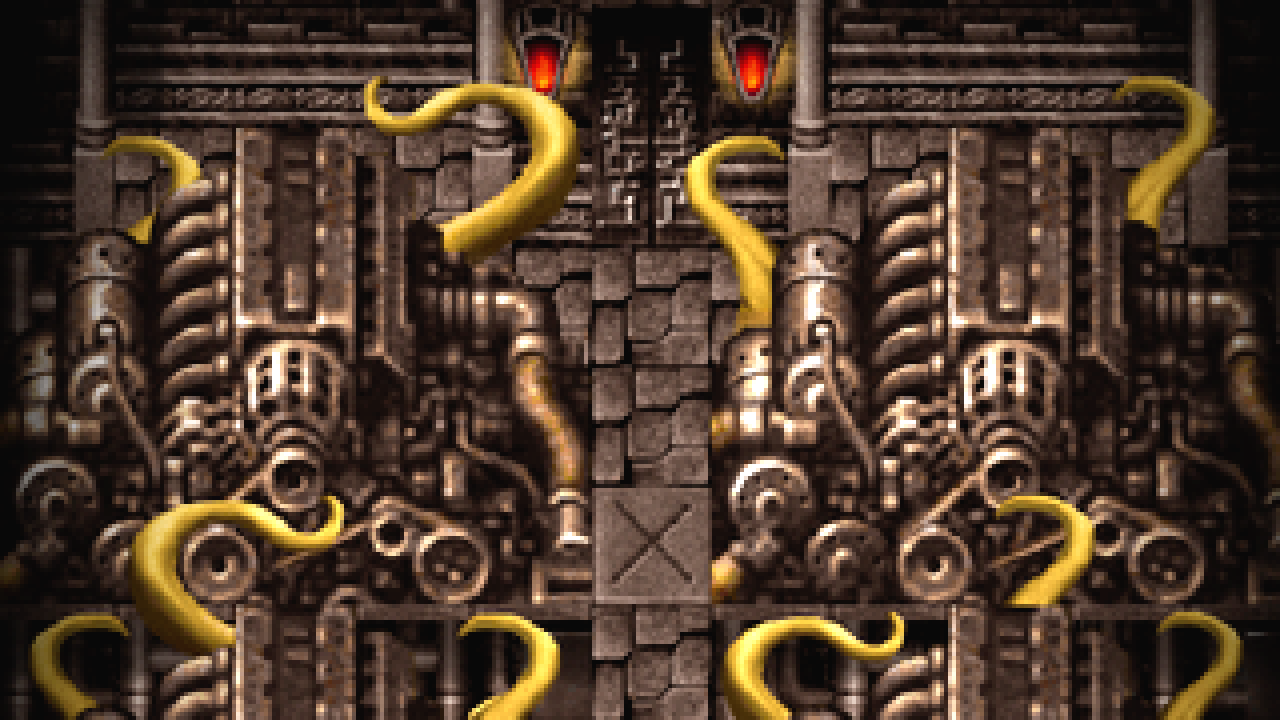
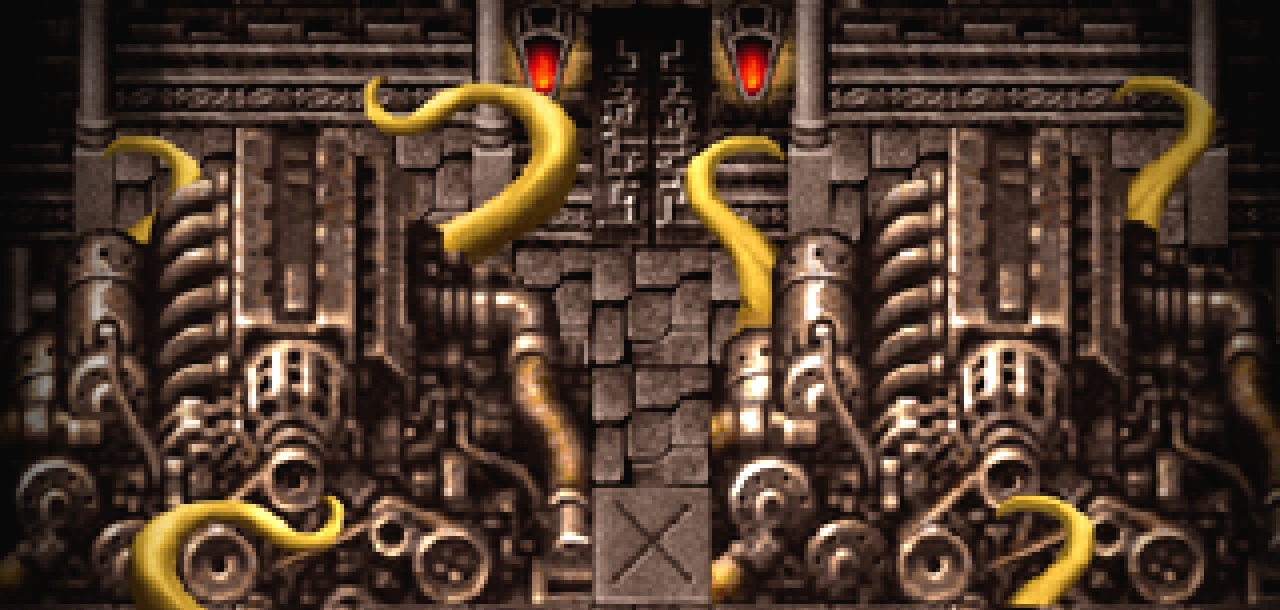
atma: combine first three chapters, rearrange images

diff --git a/core/revised/ch-inventory.tex b/core/revised/ch-inventory.tex
@@ -8,7 +8,7 @@ Gil is a character reward as important as experience. Many Jobs take into accoun
 \subsection{Mundane Items}\label{subsec:inv-mundane}
 How much does a mundane item cost? How many feet of rope, how many torches, how many sleeping bags a character has or may possess? The answer has to do directly with the economy of a Final Fantasy world: \textbf{mundane items are free}.
 
-Everything that costs Gil refers to combat. All other items should be designed according to the context and the Challenges and Destiny system, starting at page~\pageref{ch:engine}. Mundane items are a tool for the Game Master to use in drama; they were never important in any game in the series, unless the situation said so. If you decide that your character should have a torch, they will. If it is important that your character does not have a torch, they will not. If you are unsure, use a Challenge. Maybe the Bottomless Pockets Quirk may help.
+Everything that costs Gil refers to combat. All other items should be designed according to the context and the Challenges and Destiny system, starting at page~\pageref{sec:challenges}. Mundane items are a tool for the Game Master to use in drama; they were never important in any game in the series, unless the situation said so. If you decide that your character should have a torch, they will. If it is important that your character does not have a torch, they will not. If you are unsure, use a Challenge. Maybe the Bottomless Pockets Quirk may help.
 
 This does not mean that the characters have access to everything. For example: an aircraft is not combat-related and therefore is a ``mundane item'' is not available to the characters unless the Game Master decides so. Players can’t simply demand to own something simply because the item is mundane and therefore ``free'' as in our example aircraft. Use that desire to create an adventure --- or a small campaign arc, perhaps --- and then give them the aircraft. Use the acquisition of the aircraft to support the history and not as an accounting exercise.
 

diff --git a/core/revised.tex b/core/revised.tex
@@ -34,17 +34,15 @@
 \include{revised/introduction}
 
 %\styledchapter
-\styledchapter[title=Game Setup,quote={I'm your boss, kupo!\newline{}You're gonna join us, kupo!!!},author=Mog (FFVI),image=block-characters,]\label{ch:setup}
+\styledchapter[title=Game System,quote={Don't blame us. Blame yourself or God.},author=Delita Hyral (FFT),image=block-bahamut-battle,]\label{ch:setup}
 \include{revised/setup}
-
-\styledchapter[title=Game Engine,quote={Wait `til you see my beloved! She's my finest work yet!},author=Cid Pollendina (FFIV),image=block-engine]\label{ch:engine}
+%\styledchapter[title=Game Engine,quote={Wait `til you see my beloved! She's my finest work yet!},author=Cid Pollendina (FFIV),image=block-engine]\label{ch:engine}
 \include{revised/engine}
-
-\styledchapter[title=Character Options,quote=Don't blame us. Blame yourself or God.,author=Delita Hyral (FFT), width=0.38,image=block-bikes-characters]\label{ch:characters}
+%\styledchapter[title=Character Options,quote=Don't blame us. Blame yourself or God.,author=Delita Hyral (FFT), width=0.38,image=block-bikes-characters]\label{ch:characters}
 \include{revised/characters}
 
 \styledchapter[title=Jobs,quote=Then four spirits came together in this Void.
-The crystals were born and the world was created.,author=Epilogue (FFV),image=block-five-dragoon]\label{ch:jobs}
+The crystals were born and the world was created.,author=Epilogue (FFV),image=block-characters]\label{ch:jobs}
 \include{revised/jobs}
 
 \styledchapter[title=Magic,quote=I never knew weapons were used to hurt people. But we have magic. Why would we need weapons?,author=Black Mage No. 78 (FFIX),image=block-endofera]\label{ch:magic}

diff --git a/core/revised/engine.tex b/core/revised/engine.tex
@@ -17,7 +17,7 @@ A Challenge must have a significant impact on the story. Riding a chocobo has ch
 \end{enumerate}
 
 \begin{center}
-    \adjincludegraphics[width=0.45\textwidth]{block-city-future}
+    \adjincludegraphics[width=0.45\textwidth]{block-engine}
 \end{center}
 
 To create a Challenge, the Game Master should indicate what is the Challenge’s Skill and what is its difficulty. The Challenge’s difficulty is its failure chance. Thus, the GM decides what is the Challenge’s failure chance, indicated by a number between 1 (one) and 99 (ninety-nine). For a character succeed in this Challenge, his player must roll 1d100 (a 100-sided dice or two 10-sided die, one representing the tens and the other the singles) and the die roll should be greater than the established difficulty. For example, if the GM establishes as 30 the difficulty of a challenge, the player must understand that he has 30\% chance of failing, and consequently 70\% chance of success. When you fail in a Challenge, if you have the appropriate Skill, you may re-roll it. For each level in that Skill, you may re-roll the d100 once. Use the best result as your challenge roll. A player may always forfeit a Challenge. If he does, his character automatically fails. Notice that this does NOT means the character wants to fail. A character may still try very hard to achieve a forfeited Challenge but will fail nonetheless. When a player chooses to forfeit a Challenge, he may describe how his character fails.

diff --git a/core/revised/setup.tex b/core/revised/setup.tex
@@ -96,11 +96,9 @@ Setting: Wars of Mana. Taken straight from Seiken Densetsu III (or Trials of Man
 
 2\textsuperscript{nd} Group's Traits: Relics from the Past, Reputation \& Nemesis (The One without a Name). The players decided they would face a timeless being from another dimension. A creature so terrible and alien that no mortal could even speak his name without delving into the pits of madness. This was even stronger due to one of the PCs being half-mad due to an encounter with it. And what’s worse, it seems that no one believed them. This campaign had a very dark horror tone, as the PCs struggled to earn a Reputation and prove to the world that an unseen threat exists. The only ones who listened were the already-corrupted cultists of this Evil God.
 \end{multimog}
-
-\begin{center}
-  \adjincludegraphics[width=0.9\textwidth]{block-bahamut-battle}
-\end{center}
-
+\vspace{\stretch{1}}
+\adjincludegraphics[width=0.9\textwidth,center]{block-snow-building}
+\vspace{\stretch{1}}
 \section{Character Creation}\label{sec:creation}
 \begin{multicols}{2}
 Each player character has its own characteristics. They are individually assigned by the player to his character, based on the concept the player wants to roleplay. To create a player character, do the following steps:
